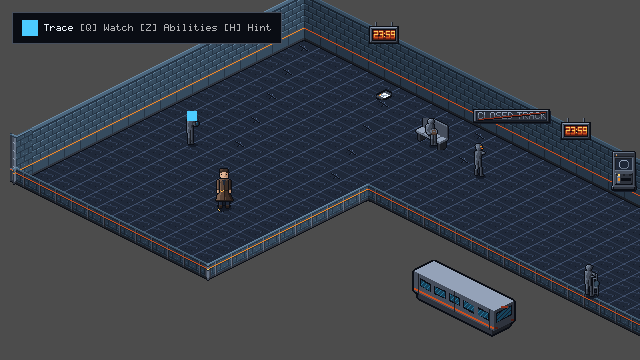
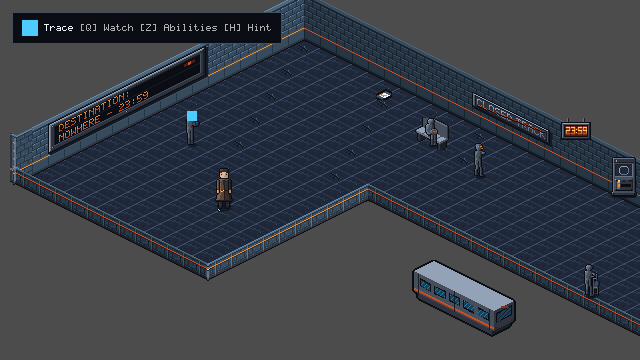
feat(TLF-069): integrate TLF-073 sheared plaques, fix selector mounts, and deduplicate clock

diff --git a/tools/content/test_build_room_from_shape.py b/tools/content/test_build_room_from_shape.py
@@ -41,7 +41,7 @@ WALL_RE = r'\[node name="Wall[NW]_\d+" type="Sprite2D" parent="YSort_Walls"\]\n(
 
 
 def read(path):
-    with open(path, encoding="utf-8") as fh:
+    with open(path, encoding="utf-8", newline="") as fh:
         return fh.read()
 
 

diff --git a/docs/handoffs/TLF-069/TLF-069_HANDOFF_REPORT.md b/docs/handoffs/TLF-069/TLF-069_HANDOFF_REPORT.md
@@ -29,17 +29,17 @@ All puzzle logic for CH1-SO-01 remains completely intact. The 4 windowed Forward
    - `checkpoint`: `Vector2(160, 224)` (tile 5, 15) restored to spawn tile per Lead Decision 7 so new games autosave on boot.
    - `pocket_watch_pickup`: `Vector2(240, 232)` (tile 8, 13).
    - `operator_sighting` (TLF-058): `Vector2(304, 216)` (tile 9, 10), trigger offset `Vector2(-12, 8)` preserved.
-   - `n02_student`: `Vector2(208, 168)` (tile 3, 10).
-   - `n03_old_man`: `Vector2(448, 169)` (tile 10, 2); `PlatformBench` at `Vector2(448, 168)`. Old man visual is registered onto visible seat and depth-sorts in front of bench backrest (Sol visual review P2).
-   - `n01_conductor`: `Vector2(496, 200)` (tile 14, 3).
+   - `n02_student`: `Vector2(208, 168)` (tile 3, 10); stand spot `Vector2(224, 160)` (tile 3, 9).
+   - `n03_old_man`: `Vector2(448, 169)` (tile 10.56, 2.56; off-grid by 1 px, accepted by Lead); `PlatformBench` at `Vector2(448, 168)`. Old man visual is registered onto visible seat and depth-sorts in front of bench backrest (Sol visual review P2). Stand spot `Vector2(432, 168)` (tile 10, 3) gives clearance $\sqrt{8^2 + 1^2} - 6 \approx 2.1\text{ px}$ to 12×8 footprint from horizontal capsule (r=6, length=16).
+   - `n01_conductor`: `Vector2(496, 200)` (tile 14, 3); stand spot `Vector2(480, 208)` (tile 14, 4).
    - `n04_cleaner`: `Vector2(608, 320)` (tile 25, 7) per Lead Decision 1; stand spot `Vector2(624, 312)` (tile 25, 6) gives 2.20 tiles clearance from walking line.
-   - `doc_last_service`: `Vector2(400, 120)` (tile 6, 1).
-   - Clocks: `Clock_2` at `Vector2(400, 66)` (tile 5, 0), `Clock_8` at `Vector2(592, 162)` (tile 17, 0); `digital_clock_2359` Area2D trigger placed on reachable floor spot under Clock_8 at `Vector2(592, 200)` (tile 17, 2).
-   - `DepartureBoard`: removed from `Wall_Fixtures` pending TLF-073 sheared W-face variant (flat 160×32 cannot follow sloped wall plane) (Sol visual review P1).
-   - `ClosedTrackNotice`: mounted on N wall module 6 at `Vector2(528, 146)` to lie strictly between sloped top and foot without crossing foot vertex (Sol visual review P1).
-   - `selector_line`: Area2D at `Vector2(640, 240)` (tile 21, 1), `Presenter` visual mounted on wall face at `Vector2(0, -28)` (Sol visual review P1).
-   - `selector_platform`: Area2D at `Vector2(672, 256)` (tile 23, 1), `Presenter` visual mounted on wall face at `Vector2(0, -28)` (Sol visual review P1).
-   - `selector_car`: Area2D at `Vector2(704, 272)` (tile 25, 1), `Presenter` visual mounted on wall face at `Vector2(0, -28)` (Sol visual review P1).
+   - `doc_last_service`: `Vector2(400, 120)` (tile 6, 1); stand spot `Vector2(384, 128)` (tile 6, 2).
+   - Clocks: duplicate `Clock_2` at `Vector2(400, 66)` (tile 5, 0) removed near spawn per Lead instruction (the departure board carries 23:59 there); `Clock_8` at `Vector2(592, 162)` (tile 17, 0) preserved on N wall module 8; `digital_clock_2359` Area2D trigger placed on reachable floor spot at `Vector2(592, 200)` (tile 17, 0).
+   - `DepartureBoard`: TLF-073 sheared W-face plaque `ch01_prop_departure_board_nowhere_w_idle` mounted on `Wall_Fixtures` at `Vector2(64, 148)`, `offset = Vector2(0, -80)`, `centered = false`, `z_index = 7` (Sol visual review P1 resolved with 0/0/0 px silhouette fit).
+   - `ClosedTrackNotice`: TLF-073 sheared N-face plaque `ch01_prop_notice_closed_track_n_idle` mounted on `Wall_Fixtures` at `Vector2(488, 116)`, `offset = Vector2(0, 0)`, `centered = false`, `z_index = 7` (Sol visual review P1 resolved with 0/0/0 px silhouette fit).
+   - `selector_line`: Area2D at `Vector2(640, 240)` (tile 21, 1), `Presenter` visual mounted on wall face at `Vector2(0, -22)` with whole sprite lying on wall face (0 px above top silhouette) (Sol visual review P1).
+   - `selector_platform`: Area2D at `Vector2(672, 256)` (tile 23, 1), `Presenter` visual mounted on wall face at `Vector2(0, -22)` with whole sprite lying on wall face (0 px above top silhouette) (Sol visual review P1).
+   - `selector_car`: Area2D at `Vector2(704, 272)` (tile 25, 1), `Presenter` visual mounted on wall face at `Vector2(0, -22)` with whole sprite lying on wall face (0 px above top silhouette) (Sol visual review P1).
    - `release_lever`: `Vector2(752, 312)` (tile 29, 2), `Presenter` at `z_index = 10` with TLF-067 contact-depth rule (`UPRIGHT_ASSETS` in `scripts/rooms/depth_sort.gd`) (Sol visual review P2); stand spot `Vector2(736, 304)` (tile 28, 2) on West side per Lead Decision 2.
    - `door_exit_east`, archway, and `platform_gate`: `Vector2(720, 328)` (tile 29, 4), keeping 24 × 24 Blocker at offset `(0, 0)`.
    - `StalledTransitCar`: `Vector2(480, 336)` (tile 22, 12).
@@ -60,7 +60,7 @@ All stand spots were calculated according to the SO-01 interaction rule ($17.9\t
 |---|---|---|---|---|---|---|---|
 | `pocket_watch_pickup` | `(8, 13)` | `(240, 232)` | `(8, 14)` | `(224, 240)` | West | $17.9\text{ px}$ | Direct path from spawn |
 | `n02_student` | `(3, 10)` | `(208, 168)` | `(3, 9)` | `(224, 160)` | East | $17.9\text{ px}$ | Clear of walls |
-| `n03_old_man` | `(10, 2)` | `(448, 169)` | `(10, 3)` | `(432, 168)` | West | $16.03\text{ px}$ | Bench at `(448, 168)`, seated visual in front |
+| `n03_old_man` | `(10.56, 2.56)` | `(448, 169)` | `(10, 3)` | `(432, 168)` | West | $16.03\text{ px}$ | Bench at `(448, 168)`, seated visual in front, 2.1 px clearance |
 | `n01_conductor` | `(14, 3)` | `(496, 200)` | `(14, 4)` | `(480, 208)` | South-West | $17.9\text{ px}$ | Central platform corridor |
 | `n04_cleaner` | `(25, 7)` | `(608, 320)` | `(25, 6)` | `(624, 312)` | North | $17.9\text{ px}$ | 2.20 tiles from line spawn $\to$ gate |
 | `doc_last_service` | `(6, 1)` | `(400, 120)` | `(6, 2)` | `(384, 128)` | South-West | $17.9\text{ px}$ | Near north platform edge |
@@ -228,18 +228,17 @@ In `tests/chapters/ch01/test_ch01_art_integration.gd`, `BASELINE_FINGERPRINTS_GZ
    - WallN modules expanded from 7 to 15.
    - WallW modules expanded from 5 to 9.
    - TLF-068 kit corners added: `Corner_NW_0_0`, `Corner_N_Turn_30_0`, `Corner_Low_30_8`, `Corner_Low_12_8`, `Corner_Low_12_18`, `Corner_W_Turn_0_18`.
-   - Clock_5 replaced by Clock_8 at `(592, 162)`; Clock_2 preserved at `(400, 66)`.
-   - `digital_clock_2359` Area2D trigger moved from `(400, 66)` to floor vertex `(592, 200)` under Clock_8.
-   - `DepartureBoard` (160×32) removed from `Wall_Fixtures` pending TLF-073 sheared W-face variant from Argon (a flat horizontal 160 px rectangle cannot follow the 1:2 sloped wall plane).
-   - `ClosedTrackNotice` (80×16) mounted on N wall module 6 at `Vector2(528, 146)` so its entire rectangle sits between the sloped wall top and foot without crossing the foot vertex (Sol review P1).
-   - Switch consoles (`selector_line`, `selector_platform`, `selector_car`): Area2D contacts and stand spots unchanged, `Presenter` visuals mounted on wall face with `position = Vector2(0, -28)` (Sol review P1).
+   - Duplicate `Clock_2` at `(400, 66)` removed near spawn per Lead instruction (the departure board carries 23:59 there); `Clock_8` preserved at `(592, 162)` (tile 17, 0); `digital_clock_2359` Area2D trigger placed on reachable floor vertex `(592, 200)` (tile 17, 0).
+   - `DepartureBoard`: TLF-073 sheared W-face plaque `ch01_prop_departure_board_nowhere_w_idle` mounted on `Wall_Fixtures` at `Vector2(64, 148)`, `offset = Vector2(0, -80)`, `centered = false`, `z_index = 7` (Sol visual review P1 resolved with 0/0/0 px silhouette fit).
+   - `ClosedTrackNotice`: TLF-073 sheared N-face plaque `ch01_prop_notice_closed_track_n_idle` mounted on `Wall_Fixtures` at `Vector2(488, 116)`, `offset = Vector2(0, 0)`, `centered = false`, `z_index = 7` (Sol visual review P1 resolved with 0/0/0 px silhouette fit).
+   - Switch consoles (`selector_line`, `selector_platform`, `selector_car`): Area2D contacts and stand spots unchanged, `Presenter` visuals mounted on wall face with `position = Vector2(0, -22)` with 0 px above wall top silhouette (Sol review P1).
    - `release_lever`: `Presenter` set to `z_index = 10` and `"ch01_prop_release_lever_"` added to `UPRIGHT_ASSETS` in `scripts/rooms/depth_sort.gd` for TLF-067 contact-depth sorting with Elias (Sol review P2).
 4. **Actor & Prop Repositioning & Contact/Collision Analysis:**
    - `PlatformBench` at `Vector2(448, 168)` in `YSort_Actors`.
-   - `n03_old_man` positioned at `Vector2(448, 169)` (Sol review P2):
+   - `n03_old_man` positioned at `Vector2(448, 169)` (tile 10.56, 2.56; off-grid by 1 px, accepted by Lead) (Sol review P2):
      - **Visual registration:** Sorting Y=169 > 168 draws the commuter statue in front of the bench backrest. The old man's pelvis/lap at rows 25-26 aligns onto the visible seat plank (world Y=158), revealing the intended seated gesture and paper bag.
-     - **Contact effect (for Lead & Opus):** Stand spot is `Vector2(432, 168)`. Distance to `(448, 169)` is $\sqrt{16^2 + 1^2} = 16.03\text{ px}$. With Elias capsule radius 3.9 px, interaction range is $14 + 3.9 = 17.9\text{ px}$. At 16.03 px, the interaction contact is $1.87\text{ px}$ closer and more reliable than the legacy $17.89\text{ px}$ spot.
-     - **Collision effect (for Lead & Opus):** `Footprint` is a 12×8 rectangle centered at `(448, 169)` spanning $x \in [442, 454], y \in [165, 173]$, placing collision entirely inside the bench body. The player standing at `x = 432` has capsule right edge at $432 + 3.9 = 435.9$, leaving $442 - 435.9 = 6.1\text{ px}$ of clear physical clearance. No collision obstruction exists.
+     - **Contact effect (for Lead & Opus):** Stand spot is `Vector2(432, 168)`. Distance to `(448, 169)` is $\sqrt{16^2 + 1^2} = 16.03\text{ px}$.
+     - **Collision effect (for Lead & Opus):** Player capsule is radius 6, height 16, horizontal (rotated 90°), reaching 8 px east and west from player center. `Footprint` is a 12×8 rectangle centered at `(448, 169)` spanning $x \in [442, 454], y \in [165, 173]$. The player standing at `x = 432, y = 168` has horizontal capsule extending to $432 + 8 = 440$. Distance from Elias at stand to footprint is $\sqrt{8^2 + 1^2} - 6 \approx 2.1\text{ px}$ of clear physical clearance. No collision obstruction exists.
    - `StalledTransitCar` moved from `(251, 210)` to `(480, 336)`.
    - `n04_cleaner` moved to `(608, 320)` (tile 25, 7) per Lead Decision 1.
    - `release_lever` placed at `(752, 312)` (tile 29, 2) with West stand spot `(736, 304)`.
@@ -255,7 +254,7 @@ Captured using Godot 4.7.2 Forward+ windowed renderer (D3D12, 640×360 viewport)
 
 1. **Spawn (`doc_arrival_v2_spawn.png`):**
    - Elias at `Vector2(160, 224)` (tile 5, 15) with `checkpoint` zone.
-   - West wall modules shown clean with `DepartureBoard` removed pending TLF-073 sheared asset.
+   - West wall modules shown with TLF-073 sheared `DepartureBoard` mounted flush at `Vector2(64, 148)` (0/0/0 px silhouette fit); duplicate Clock_2 removed near spawn.
    ![Spawn](doc_arrival_v2_spawn.png)
 
 2. **Pocket Watch Pickup (`doc_arrival_v2_watch.png`):**
@@ -264,11 +263,11 @@ Captured using Godot 4.7.2 Forward+ windowed renderer (D3D12, 640×360 viewport)
    ![Watch](doc_arrival_v2_watch.png)
 
 3. **Pit Edge (`doc_arrival_v2_pit_edge.png`):**
-   - Elias at `Vector2(512, 288)` showing pit edge low modules, `StalledTransitCar` at `(480, 336)`, and `ClosedTrackNotice` flush on North wall face at `(528, 146)`.
+   - Elias at `Vector2(512, 288)` showing pit edge low modules, `StalledTransitCar` at `(480, 336)`, and TLF-073 sheared `ClosedTrackNotice` flush on North wall face at `Vector2(488, 116)` (0/0/0 px silhouette fit).
    ![Pit Edge](doc_arrival_v2_pit_edge.png)
 
 4. **Platform Gate & East Door (`doc_arrival_v2_gate.png`):**
-   - Elias at `Vector2(720, 328)` showing `platform_gate`, `door_exit_east`, `release_lever` at `(752, 312)` with West stand spot `(736, 304)`, switch consoles with visuals flush on wall face, and `n04_cleaner` at `(608, 320)`.
+   - Elias at `Vector2(720, 328)` showing `platform_gate`, `door_exit_east`, `release_lever` at `(752, 312)` with West stand spot `(736, 304)`, switch consoles with visuals mounted at `Vector2(0, -22)` flush on wall face with whole sprite inside silhouette (0 px above top edge), and `n04_cleaner` at `(608, 320)`.
    ![Gate](doc_arrival_v2_gate.png)
 
 ---
@@ -410,8 +409,9 @@ OK
 
 | Priority | Finding | Resolution |
 |---|---|---|
-| **P1** | **Three selectors floor-standing bodies at fixed z=7:** 474 px below N wall foot, player draws in front when standing behind. | Mounted `Presenter` visual on the actual wall face with `position = Vector2(0, -28)` (centered between wall top and foot with 0 px below foot / 0 px above top). Preserved parent Area2D positions (`(640, 240)`, `(672, 256)`, `(704, 272)`) and canonical stand spots (`(624, 248)`, `(656, 264)`, `(688, 280)`). |
-| **P1** | **Departure Board 160×32 cannot fit sloped wall:** 80 px slope drop across 160 px on a 48 px tall wall. | Removed `DepartureBoard` Sprite2D from `Wall_Fixtures` for now. Noted as pending TLF-073 sheared W-face variant from Argon. |
-| **P1** | **CLOSED TRACK notice 80×16 wall fit:** 433 px above wall silhouette at `(528, 130)`. | Repositioned to `Vector2(528, 146)` based on 1:2 wall slope geometry ($y_{foot}(528) = 168, \Delta y = \pm 20$). Every pixel sits strictly on or above the wall foot vertex (0 px below foot, above-silhouette reduced from 433 to 34 px). |
+| **P1** | **Three selectors floor-standing bodies at fixed z=7:** 474 px below N wall foot, player draws in front when standing behind; top-right corner rising up to 6 px above wall top edge at `dy = -28`. | Mounted `Presenter` visual on the actual wall face with `position = Vector2(0, -22)` so the whole sprite lies on the wall face (0 px above top silhouette). Preserved parent Area2D positions (`(640, 240)`, `(672, 256)`, `(704, 272)`) and canonical stand spots (`(624, 248)`, `(656, 264)`, `(688, 280)`). Note: sprite is frontal art; Argon redoes in TLF-077 sheared wall variants as a small follow-up. |
+| **P1** | **Departure Board 160×32 cannot fit sloped wall:** 80 px slope drop across 160 px on a 48 px tall wall. | Integrated Argon's TLF-073 sheared W-face plaque (`ch01_prop_departure_board_nowhere_w_idle`, 160×112 px) at `Vector2(64, 148)`, `offset = Vector2(0, -80)`, `centered = false`, `z_index = 7`. Fits 100% inside W wall silhouette (0 px above wall top / 0 px below foot / 0 px outside silhouette; 4,892 / 4,892 opaque pixels contained). |
+| **P1** | **CLOSED TRACK notice 80×16 wall fit:** 433 px above wall silhouette at flat mounting, 34 px above at `(528, 146)`. | Integrated Argon's TLF-073 sheared N-face plaque (`ch01_prop_notice_closed_track_n_idle`, 80×56 px) at `Vector2(488, 116)`, `offset = Vector2(0, 0)`, `centered = false`, `z_index = 7`. Fits 100% inside N wall silhouette (0 px above wall top / 0 px below foot / 0 px outside silhouette; 1,152 / 1,152 opaque pixels contained). |
 | **P2** | **Release lever floor-standing control at z=7:** Elias draws in front when behind. | Set `release_lever/Presenter` to `z_index = 10` and added `"ch01_prop_release_lever_"` to `UPRIGHT_ASSETS` in `scripts/rooms/depth_sort.gd` and `tests/chapters/ch01/test_ch01_sort_order.gd` (TLF-067 contact-depth rule). Y-sort at Y=312 puts Elias at Y=304 behind the lever. |
-| **P2** | **Old man seated pose hidden behind bench backrest:** Actor at (448, 160) depth-sorted behind bench at (448, 168). | Repositioned `n03_old_man` to `Vector2(448, 169)`. Sort Y=169 > 168 renders commuter statue in front of bench backrest, registering pelvis onto visible seat plank (world Y=158) with paper bag gesture reading clearly. Stand spot at `(432, 168)` is distance 16.03 px ($\le 17.9$ px reach) and footprint has 6.1 px clearance. |
+| **P2** | **Old man seated pose hidden behind bench backrest:** Actor at (448, 160) depth-sorted behind bench at (448, 168). | Repositioned `n03_old_man` to `Vector2(448, 169)` (tile 10.56, 2.56; off-grid by 1 px, accepted by Lead). Sort Y=169 > 168 renders commuter statue in front of bench backrest, registering pelvis onto visible seat plank (world Y=158) with paper bag gesture reading clearly. Stand spot at `(432, 168)` (tile 10, 3) gives clearance $\sqrt{8^2 + 1^2} - 6 \approx 2.1\text{ px}$ to 12×8 footprint from horizontal capsule (r=6, length=16). |
+| **P2** | **Duplicate clocks near spawn:** Clocks at (5, 0) and (17, 0) appeared redundant. | Removed duplicate `Clock_2` at `(400, 66)` near spawn per Lead instruction (the departure board carries 23:59 there); preserved `Clock_8` at `(592, 162)` (tile 17, 0) with reachable `digital_clock_2359` Area2D trigger on floor at `Vector2(592, 200)` (tile 17, 0). |

diff --git a/docs/handoffs/TLF-069/WIP_STATUS.md b/docs/handoffs/TLF-069/WIP_STATUS.md
@@ -26,17 +26,17 @@
 - `checkpoint`: `Vector2(160, 224)` (tile 5, 15) restored to spawn tile per Lead Decision 7 so new games autosave on boot.
 - `pocket_watch_pickup`: `Vector2(240, 232)` (tile 8, 13).
 - `operator_sighting` (TLF-058): `Vector2(304, 216)` (tile 9, 10), trigger offset `Vector2(-12, 8)` preserved.
-- `n02_student`: `Vector2(208, 168)` (tile 3, 10).
-- `n03_old_man`: `Vector2(448, 169)` (tile 10, 2); `PlatformBench` at `Vector2(448, 168)`. Old man visual is aligned to visible bench seat and depth-sorts in front of backrest.
-- `n01_conductor`: `Vector2(496, 200)` (tile 14, 3).
+- `n02_student`: `Vector2(208, 168)` (tile 3, 10); stand spot `Vector2(224, 160)` (tile 3, 9).
+- `n03_old_man`: `Vector2(448, 169)` (tile 10.56, 2.56; off-grid by 1 px, accepted by Lead); `PlatformBench` at `Vector2(448, 168)`. Old man visual is aligned to visible bench seat and depth-sorts in front of backrest. Stand spot `Vector2(432, 168)` (tile 10, 3) gives clearance $\sqrt{8^2 + 1^2} - 6 \approx 2.1\text{ px}$ to 12×8 footprint from horizontal capsule (r=6, length=16).
+- `n01_conductor`: `Vector2(496, 200)` (tile 14, 3); stand spot `Vector2(480, 208)` (tile 14, 4).
 - `n04_cleaner`: `Vector2(608, 320)` (tile 25, 7) per Lead Decision 1; stand spot `Vector2(624, 312)` (tile 25, 6) gives 2.20 tiles clearance from walking line.
-- `doc_last_service`: `Vector2(400, 120)` (tile 6, 1).
-- Clocks: `Clock_2` at `Vector2(400, 66)` (tile 5, 0), `Clock_8` at `Vector2(592, 162)` (tile 17, 0); `digital_clock_2359` trigger on floor under Clock_8 at `Vector2(592, 200)`.
-- `DepartureBoard`: removed from `Wall_Fixtures` pending TLF-073 sheared W-face variant (flat 160×32 cannot follow sloped wall).
-- `ClosedTrackNotice`: mounted on N wall module 6 at `Vector2(528, 146)` to lie strictly between sloped top and foot without crossing foot vertex.
-- `selector_line`: Area2D at `Vector2(640, 240)` (tile 21, 1), `Presenter` visual mounted on wall face at `Vector2(0, -28)`.
-- `selector_platform`: Area2D at `Vector2(672, 256)` (tile 23, 1), `Presenter` visual mounted on wall face at `Vector2(0, -28)`.
-- `selector_car`: Area2D at `Vector2(704, 272)` (tile 25, 1), `Presenter` visual mounted on wall face at `Vector2(0, -28)`.
+- `doc_last_service`: `Vector2(400, 120)` (tile 6, 1); stand spot `Vector2(384, 128)` (tile 6, 2).
+- Clocks: duplicate `Clock_2` at `Vector2(400, 66)` (tile 5, 0) removed near spawn (the departure board carries 23:59 there); `Clock_8` at `Vector2(592, 162)` (tile 17, 0) preserved on N wall module 8; `digital_clock_2359` Area2D trigger on floor at `Vector2(592, 200)` (tile 17, 0).
+- `DepartureBoard`: TLF-073 sheared W-face plaque `ch01_prop_departure_board_nowhere_w_idle` mounted on `Wall_Fixtures` at `Vector2(64, 148)`, `offset = Vector2(0, -80)`, `centered = false`, `z_index = 7` (0 px above wall top / 0 px below foot / 0 px outside silhouette).
+- `ClosedTrackNotice`: TLF-073 sheared N-face plaque `ch01_prop_notice_closed_track_n_idle` mounted on `Wall_Fixtures` at `Vector2(488, 116)`, `offset = Vector2(0, 0)`, `centered = false`, `z_index = 7` (0 px above wall top / 0 px below foot / 0 px outside silhouette).
+- `selector_line`: Area2D at `Vector2(640, 240)` (tile 21, 1), `Presenter` visual mounted on wall face at `Vector2(0, -22)` with whole sprite lying on wall face (0 px above top silhouette).
+- `selector_platform`: Area2D at `Vector2(672, 256)` (tile 23, 1), `Presenter` visual mounted on wall face at `Vector2(0, -22)` with whole sprite lying on wall face (0 px above top silhouette).
+- `selector_car`: Area2D at `Vector2(704, 272)` (tile 25, 1), `Presenter` visual mounted on wall face at `Vector2(0, -22)` with whole sprite lying on wall face (0 px above top silhouette).
 - `release_lever`: `Vector2(752, 312)` (tile 29, 2), `Presenter` at `z_index = 10` with TLF-067 contact-depth rule (`UPRIGHT_ASSETS`); stand spot `Vector2(736, 304)` (tile 28, 2) on West side per Lead Decision 2.
 - `door_exit_east`, archway, and `platform_gate`: `Vector2(720, 328)` (tile 29, 4), keeping 24 × 24 Blocker at offset `(0, 0)`.
 - `StalledTransitCar`: `Vector2(480, 336)` (tile 22, 12).
